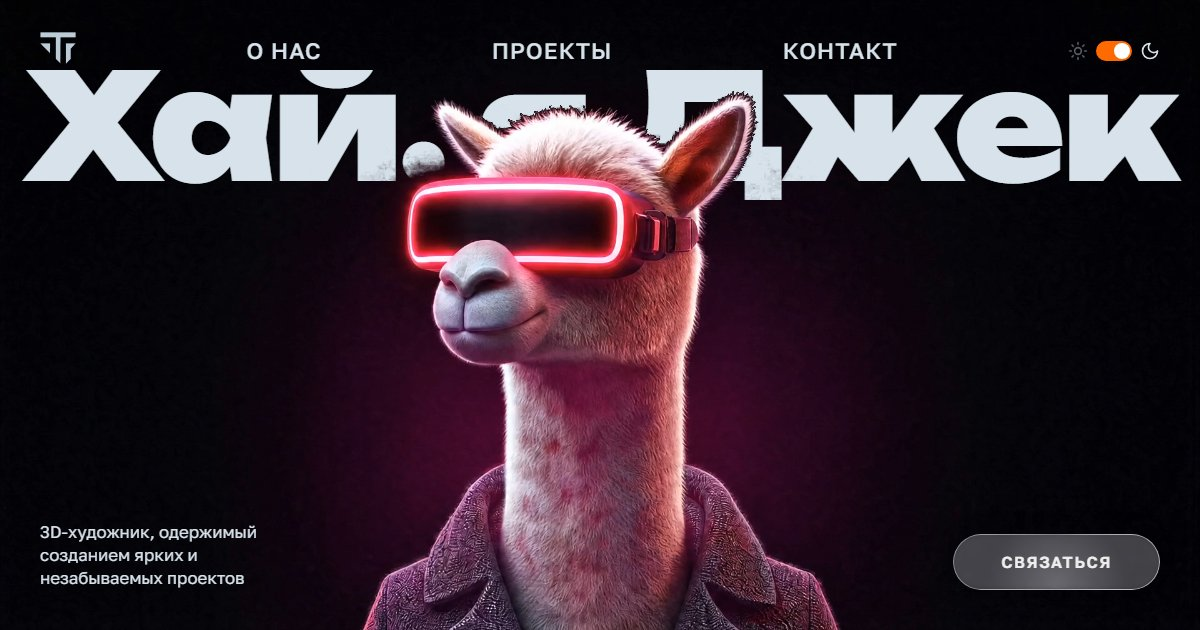
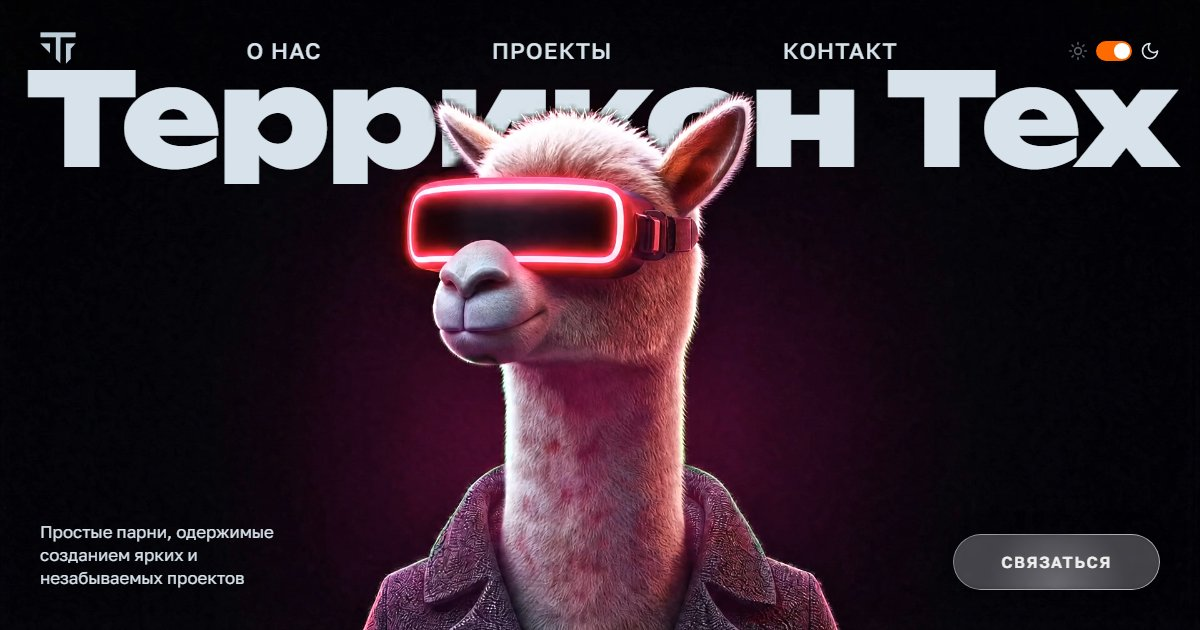
Hero-мобилка, водяной знак футера, фигуры поверх заголовка (#32)
* Конверсия: все CTA ведут в Telegram напрямую + OG-меты и og-картинка

- ContactButton: кнопка-скролл к футеру -> прямая ссылка t.me/Zotov_O
  (new tab); вариант dark для белых секций; focus-visible вместо
  outline-none; текст кнопки через children.
- CTA-блоки после «Услуг» («Обсудить задачу») и «Проектов»
  («Написать в Telegram») — раньше после услуг/кейсов действия не было.
- Футер: вместо строчки-ссылки — оранжевая кнопка + подпись «Олег,
  сооснователь. Отвечаем в течение дня».
- index.html: title под студию, meta description, OG-блок + twitter:card,
  theme-color. Домена нет — og:image относительный, при деплое заменить
  на абсолютный (комментарий в файле).
- public/og.jpg 1200x630 — кадр тёмного hero (лама), 101 КБ.

Closes #29

* Hero-мобилка, водяной знак, маски силуэта поверх заголовка

- Мобильный кроп видео: object-position по теме (лама в центре кадра,
  манекен ~68% справа) — общий object-right резал ламу пополам.
- Водяной знак футера: fluid-размер min(18vw, 280px) — edge-to-edge на
  любой ширине; срез низа фиксированной высотой бокса 0.66em вместо
  отрицательного margin (на мобиле срезалось 7px вместо половины).
- SubjectKeyCanvas: статичные маски силуэта (public/subject-mask-*.png,
  3.4 КБ каждая) вторым текстурным юнитом, alpha = max(кеинг, маска).
  Кеинг по цвету дырявил фигуру: блики манекена и тёмные уши/макушка
  ламы совпадают с ключом фона - буквы просвечивали сквозь головы.
[…]

diff --git a/src/components/SubjectKeyCanvas.tsx b/src/components/SubjectKeyCanvas.tsx
@@ -12,6 +12,19 @@ import { useEffect, useRef, type RefObject } from 'react'
 const KEY_LIGHT = { key: [0.945, 0.941, 0.976], thresh: [0.05, 0.14] }
 const KEY_DARK = { key: [0.01, 0.01, 0.024], thresh: [0.03, 0.085] }
 
+// Кеинг по цвету дырявит фигуру там, где она совпадает с фоном (блики на
+// манекене, тёмные уши ламы) — буквы просвечивали сквозь головы.
+// Светлая тема: статичная маска-страховка от дыр (кеинг даёт точную кромку).
+// Тёмная: лама крутит головой при скрабе, статичная маска либо режет уши,
+// либо грызёт буквы — поэтому АТЛАС покадровых масок (40 кадров, сетка 8×5,
+// тайл 240×135; build_atlas.py), шейдер берёт маску текущего кадра по
+// video.currentTime с интерполяцией между соседними.
+const MASK_SRC = {
+  light: '/subject-mask-light.png',
+  dark: '/subject-mask-dark-atlas.png',
+}
+const ATLAS = { frames: 40, cols: 8, rows: 5 }
+
 const VERT = `
 attribute vec2 aPos;
 varying vec2 vUV;
@@ -24,16 +37,49 @@ const FRAG = `
 precision mediump float;
 varying vec2 vUV;
 uniform sampler2D uTex;
+uniform sampler2D uMask;
 uniform vec2 uScale;
 uniform vec2 uOffset;
 uniform vec3 uKey;
 uniform vec2 uThresh;
+uniform float uDark;
+uniform float uFrame;
+
+// Тайл атласа 8x5 (R = альфа, G = яркость локального фона);
+// полутексельный отступ, чтобы соседние кадры не затекали
+vec2 atlasMask(vec2 uv, float idx) {
+  float col = mod(idx, 8.0);
+  float row = floor(idx / 8.0);
+  vec2 pad = vec2(0.5 / 240.0, 0.5 / 135.0);
+  vec2 uvc = clamp(uv, pad, vec2(1.0) - pad);
+  return texture2D(uMask, (vec2(col, row) + uvc) / vec2(8.0, 5.0)).rg;
+}
+
 void main() {
   vec2 uv = vUV * uScale + uOffset;
   vec4 c = texture2D(uTex, uv);
-  float d = distance(c.rgb, uKey) / 1.7320508;
-  float a = smoothstep(uThresh.x, uThresh.y, d);
-  gl_FragColor = vec4(c.rgb * a, a);
+  vec3 rgb;
+  float a;
+  if (uDark > 0.5) {
+    // Тёмная тема: в атласе — ГОТОВАЯ покадровая альфа (R) и яркость
+    // локального фона (G), difference matting оффлайн (build_alpha_atlas.py).
+    // Пиксель кромки = a*ворс + (1-a)*фон: примесь фона вычитаем с его
+    // розовым тинтом, иначе на полуальфе остаётся тёмный поясок.
+    float f = clamp(uFrame, 0.0, 39.0);
+    float i0 = floor(f);
+    vec2 t = mix(atlasMask(uv, i0), atlasMask(uv, min(i0 + 1.0, 39.0)), f - i0);
+    a = t.r;
+    rgb = max(c.rgb - (1.0 - a) * t.g * vec3(1.96, 0.44, 1.36), 0.0);
+    // буфер премультиплаенный: вне фигуры rgb обязан быть нулём, иначе
+    // фон и свечение аддитивно легли бы на буквы
+    rgb *= step(0.004, a);
+  } else {
+    // Светлая: кеинг даёт точную кромку глянца, маска страхует от дыр
+    float d = distance(c.rgb, uKey) / 1.7320508;
+    a = max(smoothstep(uThresh.x, uThresh.y, d), texture2D(uMask, uv).r);
+    rgb = c.rgb * a;
+  }
+  gl_FragColor = vec4(rgb, a);
 }`
 
 interface SubjectKeyCanvasProps {
@@ -91,19 +137,45 @@ export default function SubjectKeyCanvas({
       gl.enableVertexAttribArray(aPos)
       gl.vertexAttribPointer(aPos, 2, gl.FLOAT, false, 0, 0)
 
-      const tex = gl.createTexture()
-      gl.bindTexture(gl.TEXTURE_2D, tex)
-      gl.texParameteri(gl.TEXTURE_2D, gl.TEXTURE_WRAP_S, gl.CLAMP_TO_EDGE)
-      gl.texParameteri(gl.TEXTURE_2D, gl.TEXTURE_WRAP_T, gl.CLAMP_TO_EDGE)
-      gl.texParameteri(gl.TEXTURE_2D, gl.TEXTURE_MIN_FILTER, gl.LINEAR)
-      gl.texParameteri(gl.TEXTURE_2D, gl.TEXTURE_MAG_FILTER, gl.LINEAR)
+      const setupTex = (unit: number) => {
+        const t = gl.createTexture()
+        gl.activeTexture(gl.TEXTURE0 + unit)
+        gl.bindTexture(gl.TEXTURE_2D, t)
+        gl.texParameteri(gl.TEXTURE_2D, gl.TEXTURE_WRAP_S, gl.CLAMP_TO_EDGE)
+        gl.texParameteri(gl.TEXTURE_2D, gl.TEXTURE_WRAP_T, gl.CLAMP_TO_EDGE)
+        gl.texParameteri(gl.TEXTURE_2D, gl.TEXTURE_MIN_FILTER, gl.LINEAR)
+        gl.texParameteri(gl.TEXTURE_2D, gl.TEXTURE_MAG_FILTER, gl.LINEAR)
+        return t
+      }
+      // юнит 1 — маска/атлас; до загрузки — 1×1 чёрный (вклад нулевой).
+      // Формат RGB: у атласа тёмной темы два канала (альфа + фон),
+      // grayscale-маска светлой раскладывается в r=g=b
+      const maskTex = setupTex(1)
+      gl.texImage2D(gl.TEXTURE_2D, 0, gl.RGB, 1, 1, 0, gl.RGB,
+        gl.UNSIGNED_BYTE, new Uint8Array([0, 0, 0]))
+      const maskImg = new Image()
+      maskImg.onload = () => {
+        if (!cleanupGL) return
+        gl.activeTexture(gl.TEXTURE1)
+        gl.bindTexture(gl.TEXTURE_2D, maskTex)
+        gl.texImage2D(gl.TEXTURE_2D, 0, gl.RGB, gl.RGB,
+          gl.UNSIGNED_BYTE, maskImg)
+        // вернуть активный юнит: tick заливает кадры видео в юнит 0
+        gl.activeTexture(gl.TEXTURE0)
+      }
+      maskImg.src = MASK_SRC[dark ? 'dark' : 'light']
+      // юнит 0 — кадр видео (активным остаётся он: tick заливает сюда)
+      const tex = setupTex(0)
 
       const { key, thresh } = dark ? KEY_DARK : KEY_LIGHT
       gl.uniform1i(gl.getUniformLocation(prog, 'uTex'), 0)
+      gl.uniform1i(gl.getUniformLocation(prog, 'uMask'), 1)
+      gl.uniform1f(gl.getUniformLocation(prog, 'uDark'), dark ? 1 : 0)
       gl.uniform3fv(gl.getUniformLocation(prog, 'uKey'), key)
       gl.uniform2fv(gl.getUniformLocation(prog, 'uThresh'), thresh)
       const uScale = gl.getUniformLocation(prog, 'uScale')
       const uOffset = gl.getUniformLocation(prog, 'uOffset')
+      const uFrame = gl.getUniformLocation(prog, 'uFrame')
 
       // Повторяем object-fit: cover с якорем right-bottom, как у <video> на lg
       const updateCover = () => {
@@ -131,6 +203,11 @@ export default function SubjectKeyCanvas({
       const tick = () => {
         rafId = requestAnimationFrame(tick)
         if (video.readyState < 2 || !video.videoWidth) return
+        // позиция кадра в атласе масок (тёмная тема)
+        gl.uniform1f(
+          uFrame,
+          (video.currentTime / (video.duration || 1)) * (ATLAS.frames - 1),
+        )
         gl.texImage2D(
           gl.TEXTURE_2D,
           0,
@@ -147,8 +224,10 @@ export default function SubjectKeyCanvas({
         cancelAnimationFrame(rafId)
         ro.disconnect()
         video.removeEventListener('loadedmetadata', updateCover)
+        maskImg.onload = null
         gl.deleteProgram(prog)
         gl.deleteTexture(tex)
+        gl.deleteTexture(maskTex)
         gl.deleteBuffer(buf)
       }
     }

diff --git a/src/components/HeroSection.tsx b/src/components/HeroSection.tsx
@@ -84,8 +84,12 @@ function ScrubVideo({ src, dark }: { src: string; dark: boolean }) {
           playsInline
           preload="auto"
           src={src}
-          aria-label="Джек — видео-портрет 3D-художника"
-          className="h-full w-full object-cover object-right lg:object-right-bottom"
+          aria-label="Террикон Тех — видео-портрет"
+          className={`h-full w-full object-cover lg:object-right-bottom ${
+            // мобильный кроп: лама стоит в центре кадра, манекен — правее (~68%);
+            // общий object-right резал ламу пополам
+            dark ? 'object-center' : 'object-[68%_50%]'
+          }`}
         />
       </div>
       <SubjectKeyCanvas videoRef={videoRef} dark={dark} />
@@ -149,9 +153,9 @@ export default function HeroSection({
         <div className="relative z-[1] overflow-hidden">
           <FadeIn delay={0.15} y={40}>
             <h1
-              className={`hero-heading ${onLightBg ? 'hero-heading-on-video' : ''} mt-6 w-full whitespace-nowrap text-center font-display text-[12.5vw] font-black leading-none tracking-tight sm:mt-4 md:-mt-5`}
+              className={`hero-heading ${onLightBg ? 'hero-heading-on-video' : ''} mt-6 w-full whitespace-nowrap text-center font-display text-[11.2vw] font-black leading-none tracking-tight sm:mt-4 md:-mt-5`}
             >
-              Хай, я Джек
+              Террикон Тех
             </h1>
           </FadeIn>
         </div>
@@ -162,7 +166,8 @@ export default function HeroSection({
               className={`max-w-[180px] font-normal leading-snug text-[#D7E2EA] sm:max-w-[240px] md:max-w-[280px] ${onLightBg ? 'lg:text-[#0C0C0C]' : ''}`}
               style={{ fontSize: 'clamp(0.75rem, 1.4vw, 1.5rem)' }}
             >
-              3D-художник, одержимый созданием ярких и незабываемых проектов
+              Простые парни, одержимые созданием ярких и незабываемых
+              проектов
             </p>
           </FadeIn>
           <FadeIn delay={0.5} y={20}>

diff --git a/src/components/Footer.tsx b/src/components/Footer.tsx
@@ -90,12 +90,19 @@ export default function Footer() {
         </p>
       </div>
 
-      {/* Контурный водяной знак, наполовину срезанный нижним краем */}
+      {/* Контурный водяной знак — целиком, без обрезки.
+          Размер от вьюпорта: «Террикон» в Unbounded-900 = 6.19em шириной
+          (замер Range API) → 15.8vw = ~98% ширины, влезает на любом
+          вьюпорте */}
       <div
         aria-hidden="true"
-        className="pointer-events-none relative z-0 -mb-[0.12em] select-none whitespace-nowrap text-center font-display font-black leading-none tracking-tight"
+        className="pointer-events-none relative z-0 -mx-6 select-none whitespace-nowrap text-center font-display font-black leading-none tracking-tight sm:-mx-10 md:-mx-16"
         style={{
-          fontSize: 'clamp(58px, 14.5vw, 280px)',
+          fontSize: 'min(15.8vw, 280px)',
+          // очертания Unbounded занимают 1.24em при строке 1em (замерено
+          // Range API): дескендеры выходят на 0.11em ниже строки, а у футера
+          // overflow-hidden — без запаса снизу их срезает краем страницы
+          paddingBottom: '0.18em',
           color: 'transparent',
           WebkitTextStroke: '1.5px rgba(187, 204, 215, 0.4)',
         }}
